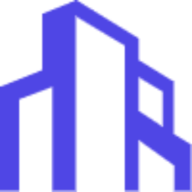
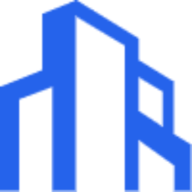
chore: Update branding

diff --git a/pages/index.js b/pages/index.js
@@ -49,7 +49,7 @@ export default function Home() {
                       />
                     </a>
                     <div className="-mr-2 flex items-center md:hidden">
-                      <Popover.Button className="bg-white rounded-md p-2 inline-flex items-center justify-center text-gray-400 hover:text-gray-500 hover:bg-gray-100 focus:outline-none focus:ring-2 focus:ring-inset focus:ring-indigo-500">
+                      <Popover.Button className="bg-white rounded-md p-2 inline-flex items-center justify-center text-gray-400 hover:text-gray-500 hover:bg-gray-100 focus:outline-none focus:ring-2 focus:ring-inset focus:ring-blue-500">
                         <span className="sr-only">Open main menu</span>
                         <MenuIcon className="h-6 w-6" aria-hidden="true" />
                       </Popover.Button>
@@ -62,7 +62,7 @@ export default function Home() {
                       {item.name}
                     </a>
                   ))}
-                  <a href={"https://app.urvana.net/formulario/dharma"} className="font-medium text-indigo-600 hover:text-indigo-500 inline-flex items-center space-x-1">
+                  <a href={"https://app.urvana.net/formulario/dharma"} className="font-medium text-blue-600 hover:text-blue-500 inline-flex items-center space-x-1">
                     <span>
                       Ingresar predios
                     </span>
@@ -90,12 +90,12 @@ export default function Home() {
                     <div>
                       <img
                         className="h-8 w-auto"
-                        src="https://tailwindui.com/img/logos/workflow-mark-indigo-600.svg"
-                        alt=""
+                        src="/logo.svg"
+                        alt="Dharma logo"
                       />
                     </div>
                     <div className="-mr-2">
-                      <Popover.Button className="bg-white rounded-md p-2 inline-flex items-center justify-center text-gray-400 hover:text-gray-500 hover:bg-gray-100 focus:outline-none focus:ring-2 focus:ring-inset focus:ring-indigo-500">
+                      <Popover.Button className="bg-white rounded-md p-2 inline-flex items-center justify-center text-gray-400 hover:text-gray-500 hover:bg-gray-100 focus:outline-none focus:ring-2 focus:ring-inset focus:ring-blue-500">
                         <span className="sr-only">Close main menu</span>
                         <XIcon className="h-6 w-6" aria-hidden="true" />
                       </Popover.Button>
@@ -113,7 +113,7 @@ export default function Home() {
                     ))}
                   </div>
 
-                  <a href={"https://app.urvana.net/formulario/dharma"} className="w-full px-5 py-3 text-center font-medium text-indigo-600 bg-gray-50 hover:bg-gray-100 flex items-center space-x-1">
+                  <a href={"https://app.urvana.net/formulario/dharma"} className="w-full px-5 py-3 text-center font-medium text-blue-600 bg-gray-50 hover:bg-gray-100 flex items-center space-x-1">
                     <span>
                       Ingresar predios
                     </span>
@@ -128,7 +128,7 @@ export default function Home() {
             <div className="sm:text-center lg:text-left">
               <h1 className="text-4xl tracking-tight font-extrabold text-gray-900 sm:text-5xl md:text-6xl">
                 <span className="block xl:inline">Edificios del mañana</span>{' '}
-                <span className="block text-indigo-600 xl:inline">hoy presentes</span>
+                <span className="block text-blue-600 xl:inline">hoy presentes</span>
               </h1>
               <p className="mt-3 text-base text-gray-500 sm:mt-5 sm:text-lg sm:max-w-xl sm:mx-auto md:mt-5 md:text-xl lg:mx-0">
                 Somos una inmobiliaria especializada en la <span className="font-semibold">comuna de Providencia</span>. Llevamos 8 años de trayectoria y más de 30 proyectos.
@@ -138,7 +138,7 @@ export default function Home() {
                   <a
                     href="https://www.urvana.net"
                     {...EXTERNAL({ follow: true })}
-                    className="w-full flex items-center justify-center px-8 py-3 border border-transparent text-base font-medium rounded-md text-white bg-indigo-600 hover:bg-indigo-700 md:py-4 md:text-lg md:px-10"
+                    className="w-full flex items-center justify-center px-8 py-3 border border-transparent text-base font-medium rounded-md text-white bg-blue-600 hover:bg-blue-700 md:py-4 md:text-lg md:px-10"
                   >
                     Hablemos
                   </a>
@@ -147,7 +147,7 @@ export default function Home() {
                   <a
                     href={"https://app.urvana.net/formulario/dharma"}
                     {...EXTERNAL({ follow: true })}
-                    className="w-full flex items-center justify-center px-8 py-3 border border-transparent text-base font-medium rounded-md text-indigo-700 bg-indigo-100 hover:bg-indigo-200 md:py-4 md:text-lg md:px-10"
+                    className="w-full flex items-center justify-center px-8 py-3 border border-transparent text-base font-medium rounded-md text-blue-700 bg-blue-100 hover:bg-blue-200 md:py-4 md:text-lg md:px-10"
                   >
                     Ingresar predios
                   </a>
@@ -160,21 +160,21 @@ export default function Home() {
       <div className="lg:absolute lg:inset-y-0 lg:right-0 lg:w-1/2">
         <img
           className="h-56 w-full object-cover sm:h-72 md:h-96 lg:w-full lg:h-full"
-          src="https://images.unsplash.com/photo-1551434678-e076c223a692?ixlib=rb-1.2.1&ixid=eyJhcHBfaWQiOjEyMDd9&auto=format&fit=crop&w=2850&q=80"
-          alt=""
+          src="https://images.pexels.com/photos/87223/pexels-photo-87223.jpeg?auto=compress&cs=tinysrgb&dpr=2&h=750&w=1260"
+          alt="Apartment building"
         />
       </div>
     </div>
 
 
-      <footer className="py-8 space-y-8 w-full max-w-screen-md mx-auto flex flex-col items-center">
+      <footer className="py-8 px-4 space-y-8 w-full max-w-screen-md mx-auto flex flex-col items-center">
         {/* <img className="h-10" src="https://tailwindui.com/img/logos/workflow-mark-gray-300.svg" alt="Company name" /> */}
         <p className="text-gray-500 text-base text-center">
           En{" "}
           <a
             href={`https://www.urvana.net?ref=${"demo"}`}
             {...EXTERNAL({ follow: true })}
-            className="text-cyan-700 hover:text-cyan-900 transition-all"
+            className="text-blue-700 hover:text-blue-900 transition-all"
           >
             Urvana.net
           </a>{" "}
